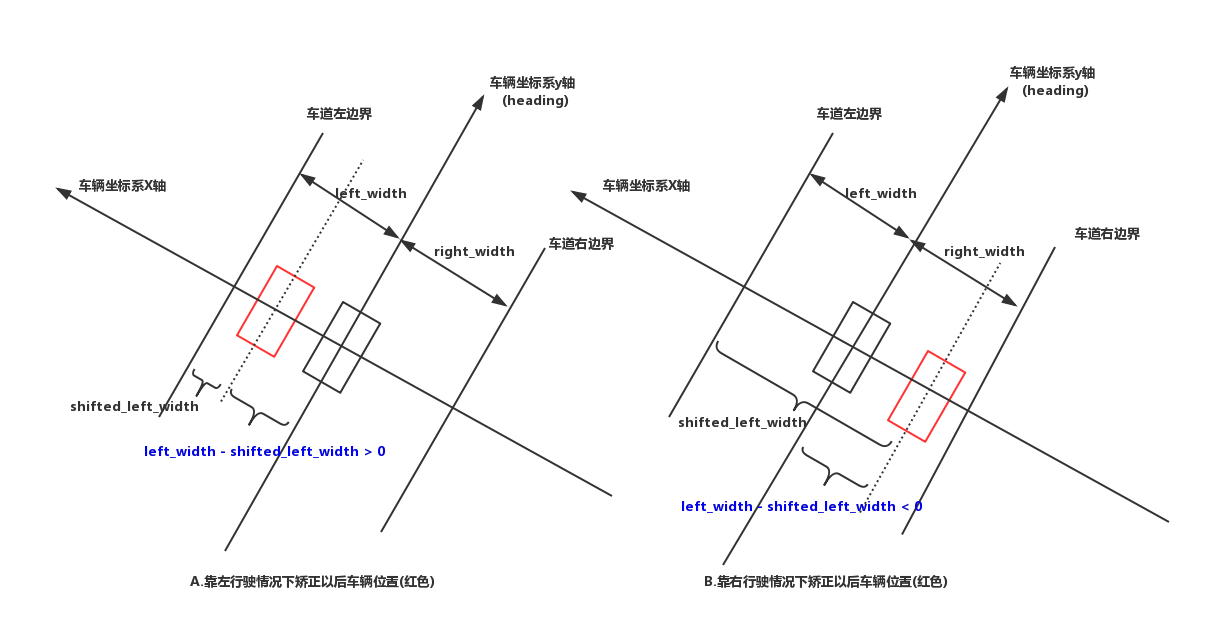
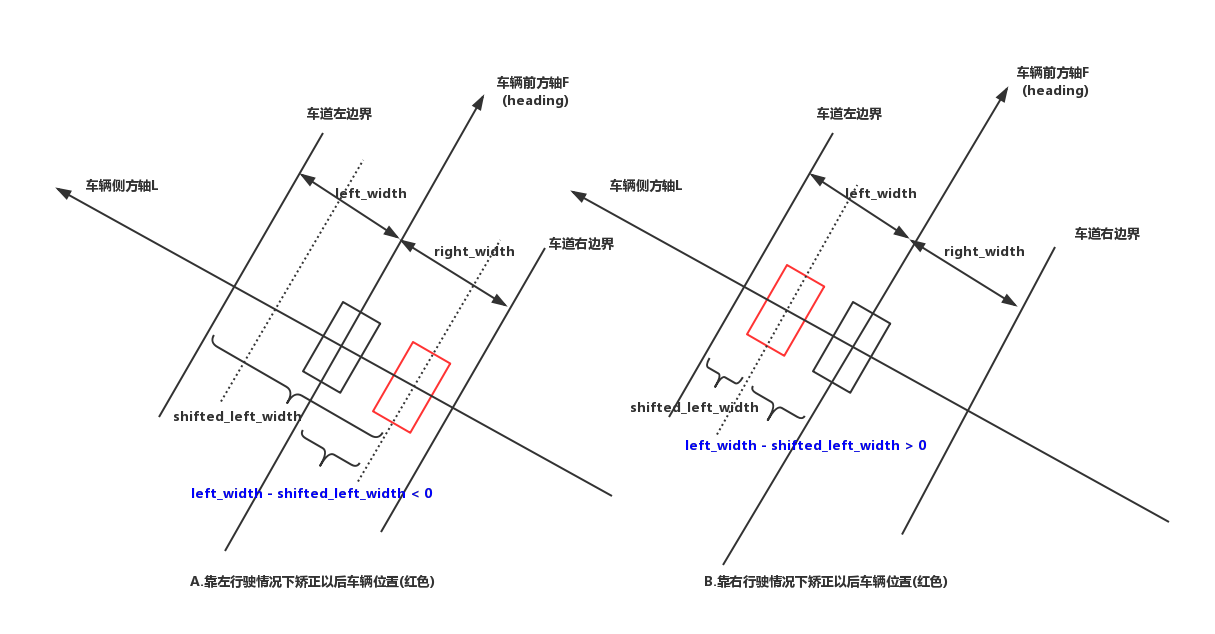
update

diff --git a/docs/planning/reference_line_provider.md b/docs/planning/reference_line_provider.md
@@ -190,7 +190,172 @@ for (const auto& point : anchor_points_) {
 }
 ```
 
-可以看到x和y都需要减去Path第一个点的世界坐标系坐标，说白了n个(num_spline)函数的坐标原点是Path的第一个点。
+可以看到x和y都需要减去Path第一个点的世界坐标系坐标，说白了2n个(2\*num_spline)函数的坐标原点是Path的第一个点。
 
 ### B. 如何设置约束条件？
 
+在上一步预处理阶段，已经知道：
+
+1. 需要拟合的多项式函数数量为2\*num_spline个，每两个knots之间会拟合x和y两个多项式
+
+2. 多项式最高阶数为5(qp_spline.spline_order: 5)，所以每个多项式共6个参数，参数总和：(spline_order+1)\*2\*num_spline
+
+3. 使用每个段内的anchor point去拟合多项式函数，自变量范围[0,1]，应变量相对于第一个anchor point的相对坐标。所以最后拟合出来的函数f和g的结果是相对于第一个anchor point的相对坐标。
+
+那么在拟合过程中还需要满足一些约束，包括等式约束和不等式约束，例如：
+
+- 预测的x'和y'需要保证在真实x和y的L轴lateral_bound、F轴longitudinal_bound领域内
+- 第一个anchor point的heading和函数的一阶导方向需要一致，大小可以不一致，但是方向必需一致！
+- x和y的n段函数之间，两两接壤部分应该是平滑的，两个函数值、一阶导、二阶导必须一致。
+
+**边界约束**
+
+每个anchor point相对第一个点的相对参考系坐标为(x,y)，方向为heading。而该点坐在的段拟合出来的相对参考系坐标为(x',y')，坐标的计算方式为:
+
+$ x' = f_i(s) = a_{i0} + a_{i1}s + a_{i2}s^2 +a_{i3}s^3 + a_{i4}s^4 + a_{i5}s^5 $
+
+$ y' = g_i(s) = b_{i0} + b_{i1}s + b_{i2}s^2 +b_{i3}s^3 + b_{i4}s^4 + b_{i5}s^5 $
+
+其中i是anchor point所在的knots段，i=1,2,...,n(n=num_spline)
+
+![img](https://github.com/YannZyl/Apollo-Note/blob/master/images/planning/boundary_constraint.png)
+
+1. 真实点(x,y)F和L轴投影计算
+
+如上图，实际情况下需要满足拟合坐标(x',y')在真实坐标(x,y)的领域内，真实点的投影计算方法比较简单，首先坐标在侧方L轴上的投影(天蓝色星星)，投影点到原点的距离，也就是侧方距离计算方式为：
+
+$ x_{p,later} = (cos(\theta+\pi/2), sin(\theta+\pi/2))·(x, y) $
+
+注意上述公式·为内积操作。这部分对应的代码为：
+
+```c++
+const double d_lateral = SignDistance(ref_point[i], angle[i]);
+
+double Spline2dConstraint::SignDistance(const Vec2d& xy_point, const double angle) const {
+  return common::math::InnerProd(xy_point.x(), xy_point.y(), -std::sin(angle), std::cos(angle));
+}
+```
+
+`ref_point[i]`是第i个anchor point的相对参考系坐标，`angle[i]`为该点的方向heading，也是公式中的theta。
+
+注意一点，代码中的方向向量是(-sin(angle), cos(angle))，其实也可以等价为(cos(angle+pi/2), sin(angle+pi/2))，很明显，代码中的方向向量是在L轴的，所以在计算L轴上的投影距离是，直接将heading传入即可，不需要额外加上一个pi/2。最终代码的计算方式与公式是一致的。
+
+真实点坐标在前方F轴上的投影(大红色星星)，投影点到原点的距离，也就是前方距离计算方式为：
+
+$ y_{p,longi} = (cos(\theta), sin(\theta))·(x, y) $
+
+注意上述公式·为内积操作。对应的代码为:
+
+```c++
+const double d_longitudinal = SignDistance(ref_point[i], angle[i] - M_PI / 2.0);
+```
+
+从L轴到F轴的方向向量，需要减去一个pi/2。
+
+2. 函数预测点(x',y')F和L轴投影计算
+
+根据多项式函数，可以简化出函数预测点(x',y')的计算方式为：
+
+$ x = SA $
+
+$ y = SB $
+
+其中:
+
+$ S = [1, s, s^2, s^3, s^4, s^5] $
+
+$ A = [a_{i0} ,a_{i1}, a_{i2}, a_{i3}, a_{i4}, a_{i5}]^T $
+
+$ B = [b_{i0} ,b_{i1}, b_{i2}, b_{i3}, b_{i4}, b_{i5}]^T $
+
+接下去我们从代码中验证一下正确性。
+
+```c++
+const uint32_t index = FindIndex(t_coord[i]);
+const double rel_t = t_coord[i] - t_knots_[index];
+const uint32_t index_offset = 2 * index * (spline_order_ + 1);
+```
+
+上述过程index是计算公式中的i，也就是计算n个拟合段中anchor point所属的段。rel_t是anchor point累积距离s相对于下界knots累积距离s的相对差，说白了就是自变量归一化到[0,1]之间。
+
+index_offset是该段拟合函数对应的参数位置，我们可以知道n段拟合多项式函数的参数总和为 2\*(spline_order+1)\*n。所以第i个拟合函数的参数偏移位置为2\*(spline_order+1)\*i。
+
+- [2\*(spline_order+1)\*i， 2\*(spline_order+1)\*i+(spline_order+1)]是x多项式函数的参数，共(spline_order+1)个，即向量A；
+- [2\*(spline_order+1)\*i+(spline_order+1)， 2\*(spline_order+1)\*(i+1)]是y多项式函数的参数，共(spline_order+1)个，即向量B
+
+```
+std::vector<double> longi_coef = AffineCoef(angle[i], rel_t);
+std::vector<double> longitudinal_coef = AffineCoef(angle[i] - M_PI / 2, rel_t);
+
+std::vector<double> Spline2dConstraint::AffineCoef(const double angle, const double t) const {
+  const uint32_t num_params = spline_order_ + 1;
+  std::vector<double> result(num_params * 2, 0.0);
+  double x_coef = -std::sin(angle);
+  double y_coef = std::cos(angle);
+  for (uint32_t i = 0; i < num_params; ++i) {
+    result[i] = x_coef;
+    result[i + num_params] = y_coef;
+    x_coef *= t;
+    y_coef *= t;
+  }
+  return result;
+}
+```
+
+这部分`longi_coef`和`longitudinal_coef`也比较简单，一句话描述：
+
+$ longi_coef = [-sin(\theta)S, cos(\theta)S] = [cos(\theta+\pi/2)S, sin(\theta+\pi/2)S] $
+
+$ longitudinal_coef = [-sin(\theta-pi/2)S, cos(\theta-pi/2)S] = [cos(\theta)S, sin(\theta)S] $
+
+两个系数分别是在L轴和F轴上的投影系数。但是longi_coef名字可能改成lateral_coef更合适。最后可以根据这两个值求解在F和L轴上的投影。
+
+$ x_{q,later} = (cos(\theta+\pi/2), sin(\theta+\pi/2))·(x', y') = (cos(\theta+\pi/2), sin(\theta+\pi/2))·(SA, SB) $
+
+即$ x_{q,later} = [-sin(\theta)S, cos(\theta)S]·(A, B) =  longi_coef · (A, B)$
+
+$ y_{q,longi} = (cos(\theta), sin(\theta))·(x', y') = (cos(\theta), sin(\theta))·(SA, SB) $
+
+即$ y_{q,longi} = [-sin(\theta-\pi/2)S, cos(\theta-\pi/2)S]·(A, B) =  longitudinal_coef · (A, B)$
+
+3. 约束条件设置
+
+现在可以计算真实点和拟合点在F轴L轴的投影，那么就有约束条件：
+
+$ |d_lateral - longi_coef·(A, B)| <= lateral_bound $
+
+$ |d_longitudinal - longitudinal_coef(A, B)| <= longitudinal_bound $
+
+最后得到四个约束不等式：
+
+- L轴上界不等式
+
+$ d_lateral - longi_coef·(A, B) <= lateral_bound $
+
+整理得到：
+
+$  longi_coef·(A, B) >= d_lateral - lateral_bound $
+
+- L轴下界不等式
+
+$ d_lateral - longi_coef·(A, B) >= -lateral_bound $
+
+整理得到：
+
+$  -longi_coef·(A, B) >= -d_lateral - lateral_bound $
+
+- F轴上界不等式
+
+$ d_longitudinal - longitudinal_coef(A, B) <= longitudinal_bound $
+
+整理得到：
+
+$  longitudinal_coef·(A, B) >= d_longitudinal - longitudinal_bound $
+
+- F轴下界不等式
+
+$ d_longitudinal - longitudinal_coef(A, B) >= -longitudinal_bound $
+
+整理得到：
+
+$  -longitudinal_coef(A, B) >= -d_longitudinal - longitudinal_bound $
